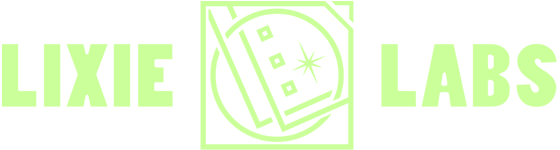
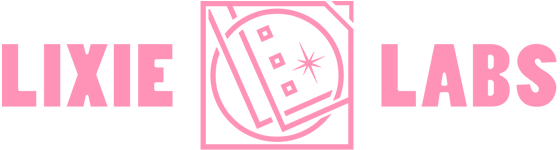
Update datasheet

Changed region(s): [[0.0, 0.0, 0.6375, 1.0], [0.6679, 0.2933, 1.0, 0.72]]

diff --git a/extras/datasheet.html b/extras/datasheet.html
@@ -25,7 +25,7 @@
 				position:relative;
 				width: 225px;
 				float:right;
-				top:15px;
+				top:0px;
 			}
 			.divider{
 				width:100%;
@@ -67,7 +67,7 @@
 				text-align: justify;
 			}
 			.footer{
-				color:#b2ff68;
+				color:#ff5c93;
 				margin-left:auto;
 				margin-right:auto;
 				width:1155px;
@@ -128,7 +128,7 @@
 				width: 50%;
 			}
 			.jump_button{
-			    background-color: #b2ff68;
+			    background-color: #ff5c93;
 				color: #000;
 				font-weight: bold;
 				padding: 7px;
@@ -143,14 +143,14 @@
 			}
 			.header_num{
 				float: right;
-				color: #b2ff68;
+				color: #ff5c93;
 				font-size:24px;
 				position: relative;
 				top: 4px;
 			}
 			
 			a{
-				color:#b2ff68;
+				color:#ff5c93;
 				text-decoration:none;
 			}
 			a:hover{
@@ -158,12 +158,12 @@
 			}
 			
 			notelink, pinlink, figurelink{
-				color:#b2ff68;
+				color:#ff5c93;
 				font-style:italic;
 				font-weight:bold;
 			}
 			pinlink{
-				color:#d3ffa8;
+				color:#ff9ebf;
 				font-weight:1;
 			}
 			notelink:hover, pinlink:hover, figurelink:hover{
@@ -187,7 +187,7 @@
 				top: 0px;
 				left: 0px;
 				z-index: 100;
-				border-bottom: 5px solid #b2ff68;
+				border-bottom: 5px solid #ff5c93;
 				display: none;
 			}
 			#popup_close{
@@ -202,13 +202,13 @@
 			}
 			
 			#popup_title{
-				color: #b2ff68;
+				color: #ff5c93;
 				font-size: 22px;
 				font-weight: bold;
 				float: left;
 				display: block;
 				margin: 15px;
-				border-bottom: 2px solid #b2ff68;
+				border-bottom: 2px solid #ff5c93;
 				padding-bottom: 15px;
 			}
 			
@@ -229,7 +229,7 @@
 				top: 0px;
 				left: 0px;
 				z-index: 50;
-				border-bottom: 5px solid #b2ff68;
+				border-bottom: 5px solid #ff5c93;
 			}
 			#menu_title{
 				display:inline-block;
@@ -240,7 +240,7 @@
 				margin-right:22px;
 			}
 			#page_link, #git_link{
-				color:#b2ff68;
+				color:#ff5c93;
 				font-size:19px;
 				display:inline-block;
 				opacity:0.75;
@@ -271,7 +271,7 @@
 			</div>
 		</div>
 		<div id="menu">
-			<div id="menu_title"><strong><span style="color:#b2ff68;">PIXIE</span></strong> | <span style="color:#999">Lixie Labs <strong>Livesheet</strong></span></div>
+			<div id="menu_title"><strong><span style="color:#ff5c93;">PIXIE</span></strong> | <span style="color:#999">Lixie Labs <strong>Livesheet</strong></span></div>
 			<div id="page_num">Page 1</div>
 			<div id="page_link" onclick="get_page_link();">Link to this page</div>
 			<div id="git_link"><a href="https://github.com/connornishijima/Pixie">Visit GitHub Repository</a></div>
@@ -280,7 +280,7 @@
 			<div id="chainable_led_matrix_displays"></div>
 			<div class="page">
 				<div class="header"></div>
-				<div class="page_title">Chainable LED Matrix Displays <span class="header_num"></span></div>
+				<div class="page_title">RGB LED Matrix Displays for Arduino<span class="header_num"></span></div>
 				<img src="img/modules.png" width="100%"></img><br>
 				<br>
 				<br>
@@ -1016,7 +1016,7 @@
 				for(var i = 0; i < 100; i++){
 					$("#note"+i).css("color","#cccccc");
 				}
-				$("#"+note).css("color","#b2ff68");
+				$("#"+note).css("color","#ff5c93");
 			}
 			
 			function figure_jump(figure){
@@ -1041,7 +1041,7 @@
 				for(var i in pins){
 					$("#"+pins[i]+"_row").css("color","#cccccc");
 				}
-				$("#"+pin+"_row").css("color","#b2ff68");
+				$("#"+pin+"_row").css("color","#ff5c93");
 				//setTimeout(function(){
 				//	$("#"+pin+"_row").css("color","#cccccc");
 				//},2000);
